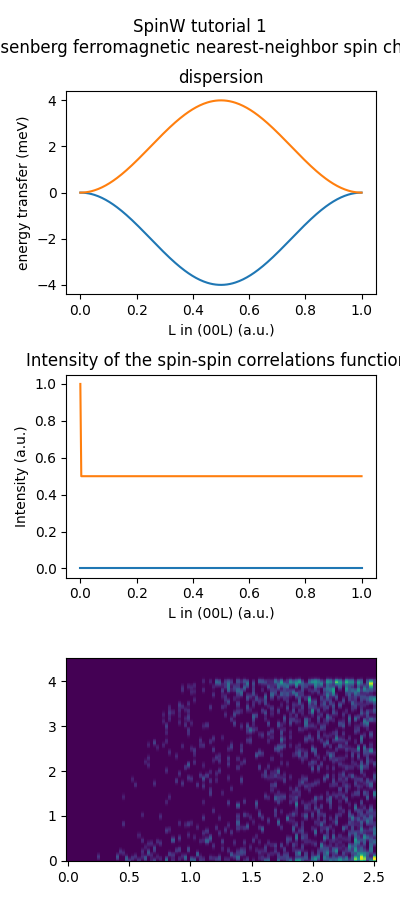
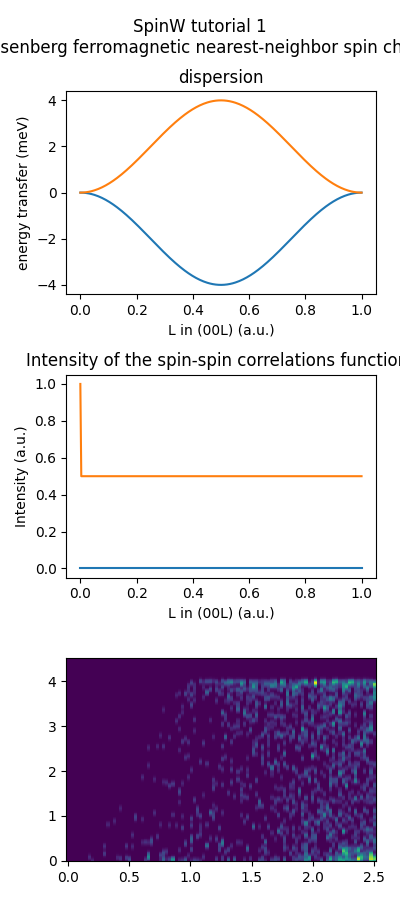
fix SpinW reproductions

Changed region(s): [[0.3, 0.7467, 0.96, 0.9644], [0.24, 0.9333, 0.27, 0.9644]]

diff --git a/tests/SpinW_comparisons/reproduce_SpinW.py b/tests/SpinW_comparisons/reproduce_SpinW.py
@@ -14,7 +14,7 @@ from spinwaves.utils.linalg import DMI
 
 
 from pathlib import Path
-PATH_PLOTS = Path(r'C:\Users\Stekiel\Documents\GitHub\spinwaves\tests\SpinW_comparisons')
+PATH_PLOTS = Path(__file__).parent
 
 ### BASICS
 def reproduce_tutorial_1(Qsamples: float=10000):
@@ -41,7 +41,8 @@ def reproduce_tutorial_1(Qsamples: float=10000):
     ]
 
     ### CALCULATIONS
-    sw = SpinW(crystal=crystal, magnetic_modulation=magnetic_modulation, couplings=couplings)
+    sw = SpinW(crystal=crystal, couplings=couplings, 
+               magnetic_modulation=magnetic_modulation)
 
 
     Egs = sw.calculate_ground_state(Qhkl=[0,0,0])
@@ -140,7 +141,7 @@ def reproduce_tutorial_2():
     ylims = [(-2.5, 2.5), (-4, 4)]
 
     for n,ax in enumerate(axes):
-        ax.set(title=titles[n], ylabel=ylabels[n], ylim=ylims[n],
+        ax.set(title=titles[n], ylabel=ylabels[n], #ylim=ylims[n],
                xlabel='L in (00L) (a.u.)', xlim=(0,1))
 
         ax.plot(Qpath[:,0], yvals[n])
@@ -825,9 +826,9 @@ def reproduce_tutorial_12():
     exc = sw.calculate_excitations(Qhkl = Qpath)
 
     ### PLOTTING
-    fig, axes = plt.subplots(nrows=2, figsize=(4, 6), tight_layout=True)
+    fig, axes = plt.subplots(nrows=3, figsize=(4, 9), tight_layout=True)
 
-    fig.suptitle('SpinW tutorial 8\nk=0 Kagome antiferromagnet with DM interaction')
+    fig.suptitle('SpinW tutorial 12\nk=0 triangular lattice AF with easy plane anisotropy')
 
     axes[0].set(title='Dispersion relations', 
                 xlabel='Qinc (A-1)',
@@ -836,13 +837,25 @@ def reproduce_tutorial_12():
     axes[0].plot(Qinc, exc.E)
 
     Erange = np.linspace(*Elims, 500)
-    spectrum = sw.calculate_spectrum(Erange, 0.4)
 
     for ax in axes:
-        ax.set(ylabel='energy', xlabel='Momentum')
+        ax.set(xlabel='Momentum', xlim=(0,1),
+               ylabel='energy', ylim=Elims)
     
+    spectrum = sw.calculate_spectrum(Erange, 0.4)
     pcm = axes[1].pcolormesh(Qinc, Erange, spectrum, cmap='afmhot_r', vmax=4)
     cbar = fig.colorbar(pcm, ax=axes[1], orientation='vertical', extend='max', label='intensity (a.u.)')
+
+
+    spectrum_xy = sw.calculate_spectrum(Erange, 0.9, spectral_weight=(exc.Sxx+exc.Syy).real)
+    spectrum_zz = sw.calculate_spectrum(Erange, 0.9, spectral_weight=exc.Szz.real)
+    # the trick to plot both spectra is to glue the other one on negative scale
+    # and keep the scale symmetric against zero
+    spectrum = spectrum_xy - 2*spectrum_zz
+    v = 8
+    axes[2].plot(Qinc, exc.E, c='black', lw=0.5, zorder=10)
+    pcm = axes[2].pcolormesh(Qinc, Erange, spectrum, cmap='RdBu', vmin=-v, vmax=v)
+    cbar = fig.colorbar(pcm, ax=axes[2], orientation='vertical', extend='max', label='intensity (a.u.)')
 
 
     fig.savefig(f'{PATH_PLOTS}\spinw_tutorial_12.png')
@@ -1178,10 +1191,10 @@ if __name__ == "__main__":
     # reproduce_tutorial_9(Qsamples)
 
     # reproduce_tutorial_11()
-    # reproduce_tutorial_12()
+    reproduce_tutorial_12()
 
     # reproduce_tutorial_19()
-    reproduce_tutorial_20()
+    # reproduce_tutorial_20()
     # reproduce_tutorial_21()
 
     # test_new_functionalities()